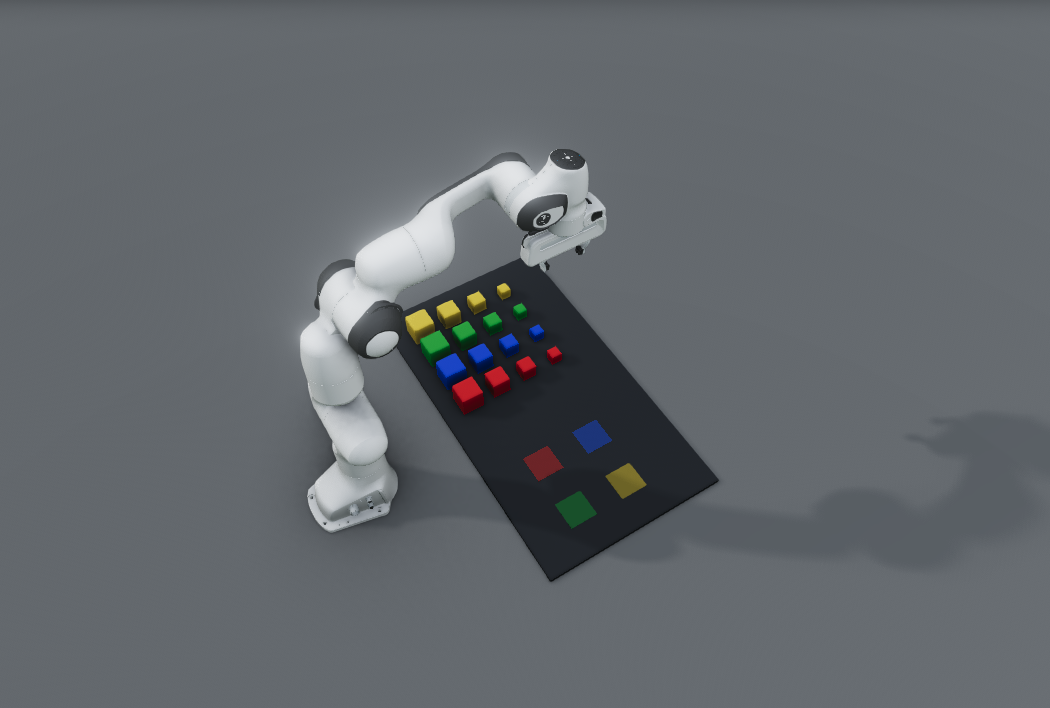
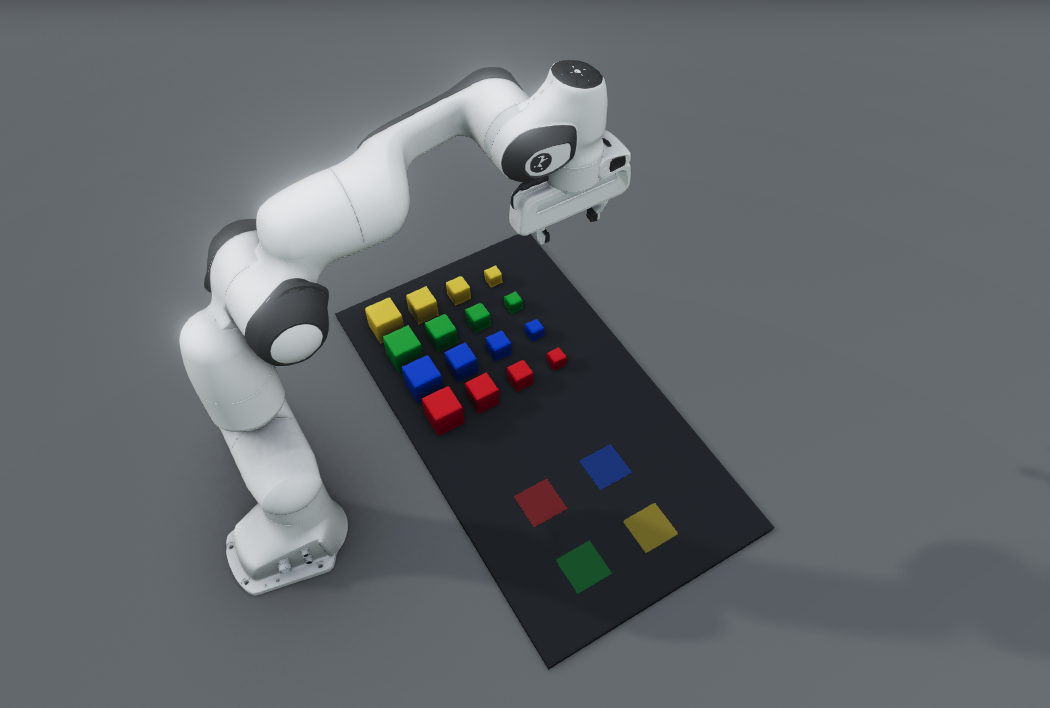
Added: Center Over Object
Added a middle step between Allign Arm and Grasp

Changed region(s): [[0.1524, 0.0621, 0.7314, 0.9633]]

diff --git a/LuckySortStack/Assets/Scripts/Client/Source/StateMachine/TaskStateMachine.cs b/LuckySortStack/Assets/Scripts/Client/Source/StateMachine/TaskStateMachine.cs
@@ -13,6 +13,7 @@ namespace LuckySortStack.StateMachine
 		SelectTarget,
 		MoveAboveObject,
 		AlignGripper,      // measure the real gripper yaw and correct it before descending
+		CenterOverObject,  // drop to just above the object and cancel the horizontal tracking error
 		MoveToObject,
 		Grasp,
 		Lift,
@@ -48,6 +49,12 @@ namespace LuckySortStack.StateMachine
 		public float YawTolerance = 6f * MathF.PI / 180f;
 		public float AlignDwell = 0.25f;            // let the wrist settle before measuring
 		public int MaxAlignIterations = 4;
+
+		// Position calibration before the final descent. The arm settles with a few mm of tracking error
+		// that varies with its configuration, and a Large cube leaves only ~10 mm per finger.
+		public float PreGraspClearance = 0.04f;     // grasp-site height above the object's top while centring
+		public float CenterTolerance = 0.003f;      // horizontal grasp-site error allowed before descending
+		public int MaxCenterIterations = 3;
 
 		public float GraspOffsetY = 0.0f;           // grasp-site height relative to object centre
 		public float PushTolerance = 0.008f;        // object moved this far during descent = collision
@@ -105,6 +112,8 @@ namespace LuckySortStack.StateMachine
 		private float m_CommandedYaw;
 		private Vector3 m_PlaceCentre;
 		private Vector3 m_ObjectAtDescent;
+		private Vector3 m_PosCorrection;            // added to pick targets to cancel the measured tracking error
+		private int m_CenterIteration;
 
 		private float m_YawSign;
 		private float m_YawOffset;
@@ -150,6 +159,7 @@ namespace LuckySortStack.StateMachine
 				case TaskState.SelectTarget:    UpdateSelectTarget(); break;
 				case TaskState.MoveAboveObject: UpdateMoveAboveObject(); break;
 				case TaskState.AlignGripper:    UpdateAlignGripper(); break;
+				case TaskState.CenterOverObject: UpdateCenterOverObject(); break;
 				case TaskState.MoveToObject:    UpdateMoveToObject(); break;
 				case TaskState.Grasp:           if (m_StateTime >= m_Cfg.GripperCloseTime) TransitionTo(TaskState.Lift); break;
 				case TaskState.Lift:            OnMoveDone(TaskState.VerifyGrasp); break;
@@ -186,14 +196,19 @@ namespace LuckySortStack.StateMachine
 					m_PickAttempts++;
 					Metrics.PickAttempts++;
 					m_Arm.SetGripper(1f);
+					m_PosCorrection = Vector3.Zero;
 					m_ObjectAtDescent = ObjectPos(step!);
 					StartMove(new Vector3(m_ObjectAtDescent.X, m_Cfg.TravelHeight, m_ObjectAtDescent.Z), CommandFor(ObjectYaw(step!)), m_Cfg.TravelSpeed);
 					break;
 				}
+				case TaskState.CenterOverObject:
+					m_CenterIteration = 0;
+					StartMove(PreGraspPoint(step!) + m_PosCorrection, m_CommandedYaw, m_Cfg.DescendSpeed);
+					break;
 				case TaskState.MoveToObject:
 				{
 					m_ObjectAtDescent = ObjectPos(step!);   // re-read: the object may have shifted
-					StartMove(m_ObjectAtDescent + new Vector3(0f, m_Cfg.GraspOffsetY, 0f), m_CommandedYaw, m_Cfg.DescendSpeed);
+					StartMove(m_ObjectAtDescent + new Vector3(0f, m_Cfg.GraspOffsetY, 0f) + m_PosCorrection, m_CommandedYaw, m_Cfg.DescendSpeed);
 					break;
 				}
 				case TaskState.Grasp:
@@ -252,7 +267,7 @@ namespace LuckySortStack.StateMachine
 			MoveStatus status = CheckMove();
 			if (status == MoveStatus.Running) return;
 			if (status == MoveStatus.TimedOut) { MoveFailed("approach"); return; }
-			BeginAlign(ObjectYaw(CurrentStep!), TaskState.MoveToObject);
+			BeginAlign(ObjectYaw(CurrentStep!), TaskState.CenterOverObject);
 		}
 
 		private void UpdateMoveToStack()
@@ -321,15 +336,51 @@ namespace LuckySortStack.StateMachine
 			m_StateTime = 0f;
 		}
 
+		// Hover just above the object and measure where the grasp site really is. The miss is
+		// accumulated into m_PosCorrection, which the final descent also applies.
+		private void UpdateCenterOverObject()
+		{
+			MoveStatus status = CheckMove();
+			if (status == MoveStatus.TimedOut) { MoveFailed("pre-grasp hover"); return; }
+			if (status == MoveStatus.Running || m_StateTime < m_MoveDuration + m_Cfg.AlignDwell) return;
+
+			Vector3 desired = PreGraspPoint(CurrentStep!);
+			Vector3 g = m_Arm.GripperPosition;
+			Vector3 error = new Vector3(desired.X - g.X, 0f, desired.Z - g.Z);
+			if (error.Length() <= m_Cfg.CenterTolerance)
+			{
+				TransitionTo(TaskState.MoveToObject);
+				return;
+			}
+
+			if (m_CenterIteration >= m_Cfg.MaxCenterIterations)
+			{
+				Emit($"Grasp site still {error.Length() * 1000f:F1} mm off-centre after {m_CenterIteration} corrections; descending anyway");
+				TransitionTo(TaskState.MoveToObject);
+				return;
+			}
+
+			m_PosCorrection += error;
+			m_CenterIteration++;
+			Emit($"Centring: grasp site off by ({-error.X * 1000f:F1}, {-error.Z * 1000f:F1}) mm (x, z); " +
+				$"correction now ({m_PosCorrection.X * 1000f:F1}, {m_PosCorrection.Z * 1000f:F1}) mm");
+			StartMove(desired + m_PosCorrection, m_CommandedYaw, m_Cfg.DescendSpeed);
+			m_StateTime = 0f;
+		}
+
 		private void UpdateMoveToObject()
 		{
 			PlannedStep step = CurrentStep!;
-			float pushed = HorizontalDistance(ObjectPos(step), m_ObjectAtDescent);
+			Vector3 obj = ObjectPos(step);
+			float pushed = HorizontalDistance(obj, m_ObjectAtDescent);
 			if (pushed > m_Cfg.PushTolerance)
 			{
 				Metrics.GraspFailures++;
+				Vector3 g = m_Arm.GripperPosition;
 				Emit($"Collision: {step.Object.PoolTag} pushed {pushed * 1000f:F0} mm during descent " +
-					$"(gripper yaw {Deg(m_Arm.GripperYaw)}°, object yaw {Deg(ObjectYaw(step))}°)");
+					$"(gripper yaw {Deg(m_Arm.GripperYaw)}°, object yaw {Deg(ObjectYaw(step))}°, " +
+					$"grasp site ({(g.X - m_ObjectAtDescent.X) * 1000f:F1}, {(g.Z - m_ObjectAtDescent.Z) * 1000f:F1}) mm (x, z) " +
+					$"from where the object was, {(g.Y - obj.Y) * 1000f:F0} mm above its centre)");
 				BeginRecovery(FailureReason.GraspFailed);
 				return;
 			}
@@ -420,7 +471,7 @@ namespace LuckySortStack.StateMachine
 			string detail = $"{what}: grasp site {Vector3.Distance(g, m_MoveTarget) * 1000f:F0} mm from target after {m_StateTime:F1}s. " +
 				$"target ({m_MoveTarget.X:F3}, {m_MoveTarget.Y:F3}, {m_MoveTarget.Z:F3}) r={MathF.Sqrt(m_MoveTarget.X * m_MoveTarget.X + m_MoveTarget.Z * m_MoveTarget.Z):F3}, " +
 				$"gripper ({g.X:F3}, {g.Y:F3}, {g.Z:F3}), yaw cmd {Deg(m_CommandedYaw)}° measured {Deg(m_Arm.GripperYaw)}°";
-			if (step != null && (State == TaskState.MoveAboveObject || State == TaskState.MoveToObject))
+			if (step != null && (State == TaskState.MoveAboveObject || State == TaskState.CenterOverObject || State == TaskState.MoveToObject))
 			{
 				detail += $", object moved {HorizontalDistance(ObjectPos(step), m_ObjectAtDescent) * 1000f:F0} mm";
 				Emit("Move failed: " + detail);
@@ -527,6 +578,12 @@ namespace LuckySortStack.StateMachine
 			foreach (var (obj, _) in m_Placed[stackIndex])
 				live.Add((m_World.GetObjectPosition(obj.PoolTag), obj.Edge));
 			return live;
+		}
+
+		private Vector3 PreGraspPoint(PlannedStep step)
+		{
+			Vector3 obj = ObjectPos(step);
+			return new Vector3(obj.X, obj.Y + step.Object.Edge / 2f + m_Cfg.PreGraspClearance, obj.Z);
 		}
 
 		private Vector3 ObjectPos(PlannedStep step) => m_World.GetObjectPosition(step.Object.PoolTag);

diff --git a/Tests/LuckySort.Core.Tests/FakeSim.cs b/Tests/LuckySort.Core.Tests/FakeSim.cs
@@ -28,6 +28,10 @@ namespace LuckySort.Core.Tests
 		public float YawSign = 1f;
 		public float YawOffset = 0f;
 		public float MaxMisalignment = 10f * MathF.PI / 180f;   // fingers clear the cube within this
+		public float FingerOpening = 0.08f;                     // Panda: 40 mm per finger
+
+		// Steady-state tracking error: the grasp site settles this far from where it was commanded.
+		public Vector3 TrackingBias = Vector3.Zero;
 
 		// Fault injection.
 		public readonly Dictionary<string, int> GraspMisses = new();             // tag → number of grasps that slip
@@ -63,7 +67,7 @@ namespace LuckySort.Core.Tests
 			if (r > MaxReach)
 				position = new Vector3(position.X * MaxReach / r, position.Y, position.Z * MaxReach / r);
 			m_From = m_Gripper;
-			m_To = position;
+			m_To = position + TrackingBias;
 			m_YawFrom = m_Yaw;
 			m_YawTo = YawSign * yaw + YawOffset;
 			m_Duration = Math.Max(durationSeconds, 1e-4f);
@@ -97,14 +101,16 @@ namespace LuckySort.Core.Tests
 			}
 		}
 
-		// Open fingers reaching the top of a cube they don't straddle push it aside.
+		// Open fingers reaching the top of a cube they don't straddle push it aside: either the
+		// gripper is twisted relative to the cube, or off-centre by more than the finger clearance.
 		private void CheckDescentContact()
 		{
 			foreach (var (tag, body) in Bodies)
 			{
 				bool fingersAtCube = m_Gripper.Y < body.Position.Y + body.Edge / 2f + 0.01f && m_Gripper.Y > body.Position.Y - body.Edge / 2f;
-				bool over = MathF.Abs(m_Gripper.X - body.Position.X) < body.Edge / 2f && MathF.Abs(m_Gripper.Z - body.Position.Z) < body.Edge / 2f;
-				if (!fingersAtCube || !over) continue;
+				Vector3 offset = new Vector3(m_Gripper.X - body.Position.X, 0f, m_Gripper.Z - body.Position.Z);
+				bool near = offset.Length() < (body.Edge + FingerOpening) / 2f;
+				if (!fingersAtCube || !near) continue;
 
 				if (PushOnce.Remove(tag, out Vector3 shove))
 				{
@@ -114,6 +120,11 @@ namespace LuckySort.Core.Tests
 				else if (MathF.Abs(TaskStateMachine.WrapQuarter(m_Yaw - body.Yaw)) > MaxMisalignment)
 				{
 					body.Position += new Vector3(0.012f, 0f, 0f);
+					Collisions++;
+				}
+				else if (offset.Length() > (FingerOpening - body.Edge) / 2f)
+				{
+					body.Position -= Vector3.Normalize(offset) * 0.012f;   // finger lands on the near edge
 					Collisions++;
 				}
 			}

diff --git a/Tests/LuckySort.Core.Tests/PlanningAndStateMachineTests.cs b/Tests/LuckySort.Core.Tests/PlanningAndStateMachineTests.cs
@@ -151,6 +151,29 @@ namespace LuckySort.Core.Tests
 			Assert.Contains(run.Log, l => l.StartsWith("Collision:"));
 		}
 
+		// 11 mm of tracking error is inside MoveTolerance but more than a Large cube's ~10 mm finger clearance.
+		private static readonly Vector3 k_TrackingBias = new Vector3(0.009f, 0f, -0.006f);
+
+		[Fact]
+		public void TrackingErrorWithoutCentringPushesTheLargeCube()
+		{
+			var run = Execute(Setup(Task(12345), sim => sim.TrackingBias = k_TrackingBias, s => s.MaxCenterIterations = 0));
+			Assert.True(run.Sim.Collisions > 0);
+			Assert.Contains(run.Log, l => l.StartsWith("Collision:"));
+		}
+
+		[Fact]
+		public void TrackingErrorIsCentredOutBeforeDescent()
+		{
+			foreach (int seed in new[] { 12345, 1234, 42 })
+			{
+				var run = Execute(Setup(Task(seed), sim => sim.TrackingBias = k_TrackingBias));
+				Assert.Equal(TaskState.Success, run.Machine.State);
+				Assert.Equal(0, run.Sim.Collisions);
+				Assert.Contains(run.Log, l => l.StartsWith("Centring:"));
+			}
+		}
+
 		[Fact]
 		public void PushedObjectIsReapproachedFromItsNewPosition()
 		{
@@ -243,7 +266,7 @@ namespace LuckySort.Core.Tests
 
 			var cycle = new[]
 			{
-				TaskState.SelectTarget, TaskState.MoveAboveObject, TaskState.AlignGripper, TaskState.MoveToObject, TaskState.Grasp,
+				TaskState.SelectTarget, TaskState.MoveAboveObject, TaskState.AlignGripper, TaskState.CenterOverObject, TaskState.MoveToObject, TaskState.Grasp,
 				TaskState.Lift, TaskState.VerifyGrasp, TaskState.MoveToStack, TaskState.AlignGripper, TaskState.Place,
 				TaskState.Release, TaskState.Retreat, TaskState.VerifyPlacement,
 			};

diff --git a/LuckySortStack/Assets/Scripts/Client/Source/Episodes/EpisodeManager.cs b/LuckySortStack/Assets/Scripts/Client/Source/Episodes/EpisodeManager.cs
@@ -16,23 +16,23 @@ namespace LuckySortStack.Episodes
 	public class EpisodeManager : Entity
 	{
 		[Group("Task")] [Tooltip("Same seed + config = same task.")]
-		public int Seed = 1234;
+		public int Seed = 1757348071;
 
 		[Group("Task")] [Tooltip("Ignore Seed and draw a fresh one each Play (it is logged so it can be replayed).")]
 		public bool RandomizeSeedOnPlay = false;
 
 		[Group("Task")] [ClampValue(1, 4)]
-		public int NumColors = 3;
+		public int NumColors = 4;
 
 		[Group("Task")] [ClampValue(1, 4)]
 		public int MinObjectsPerColor = 2;
 
 		[Group("Task")] [ClampValue(1, 4)]
-		public int MaxObjectsPerColor = 3;
+		public int MaxObjectsPerColor = 4;
 
 		[Group("Task")] [ClampValue(1, 4)]
 		[Tooltip("Number of size tiers in play, from Large downwards.")]
-		public int NumSizeTiers = 3;
+		public int NumSizeTiers = 4;
 
 		[Group("Task")]
 		public bool RandomizePositions = true;
